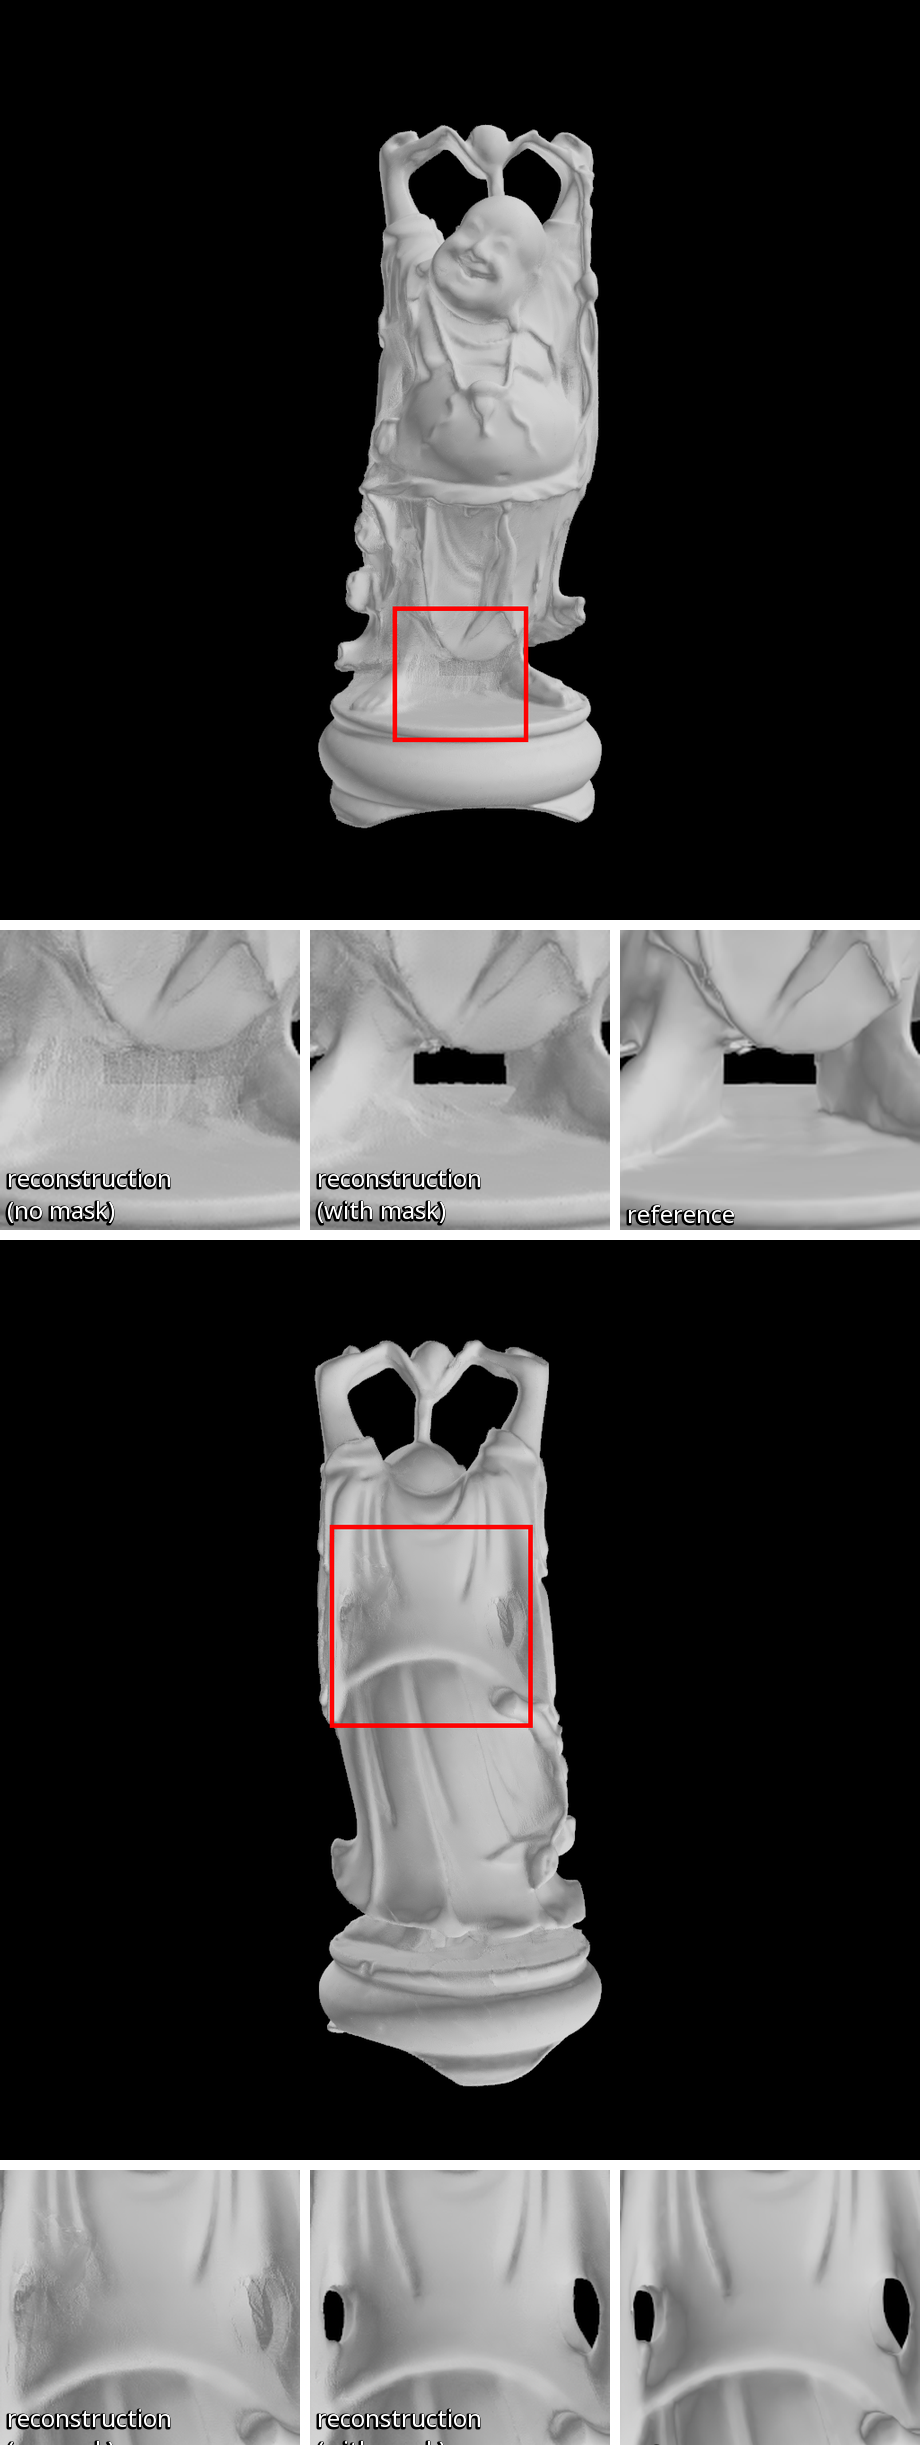
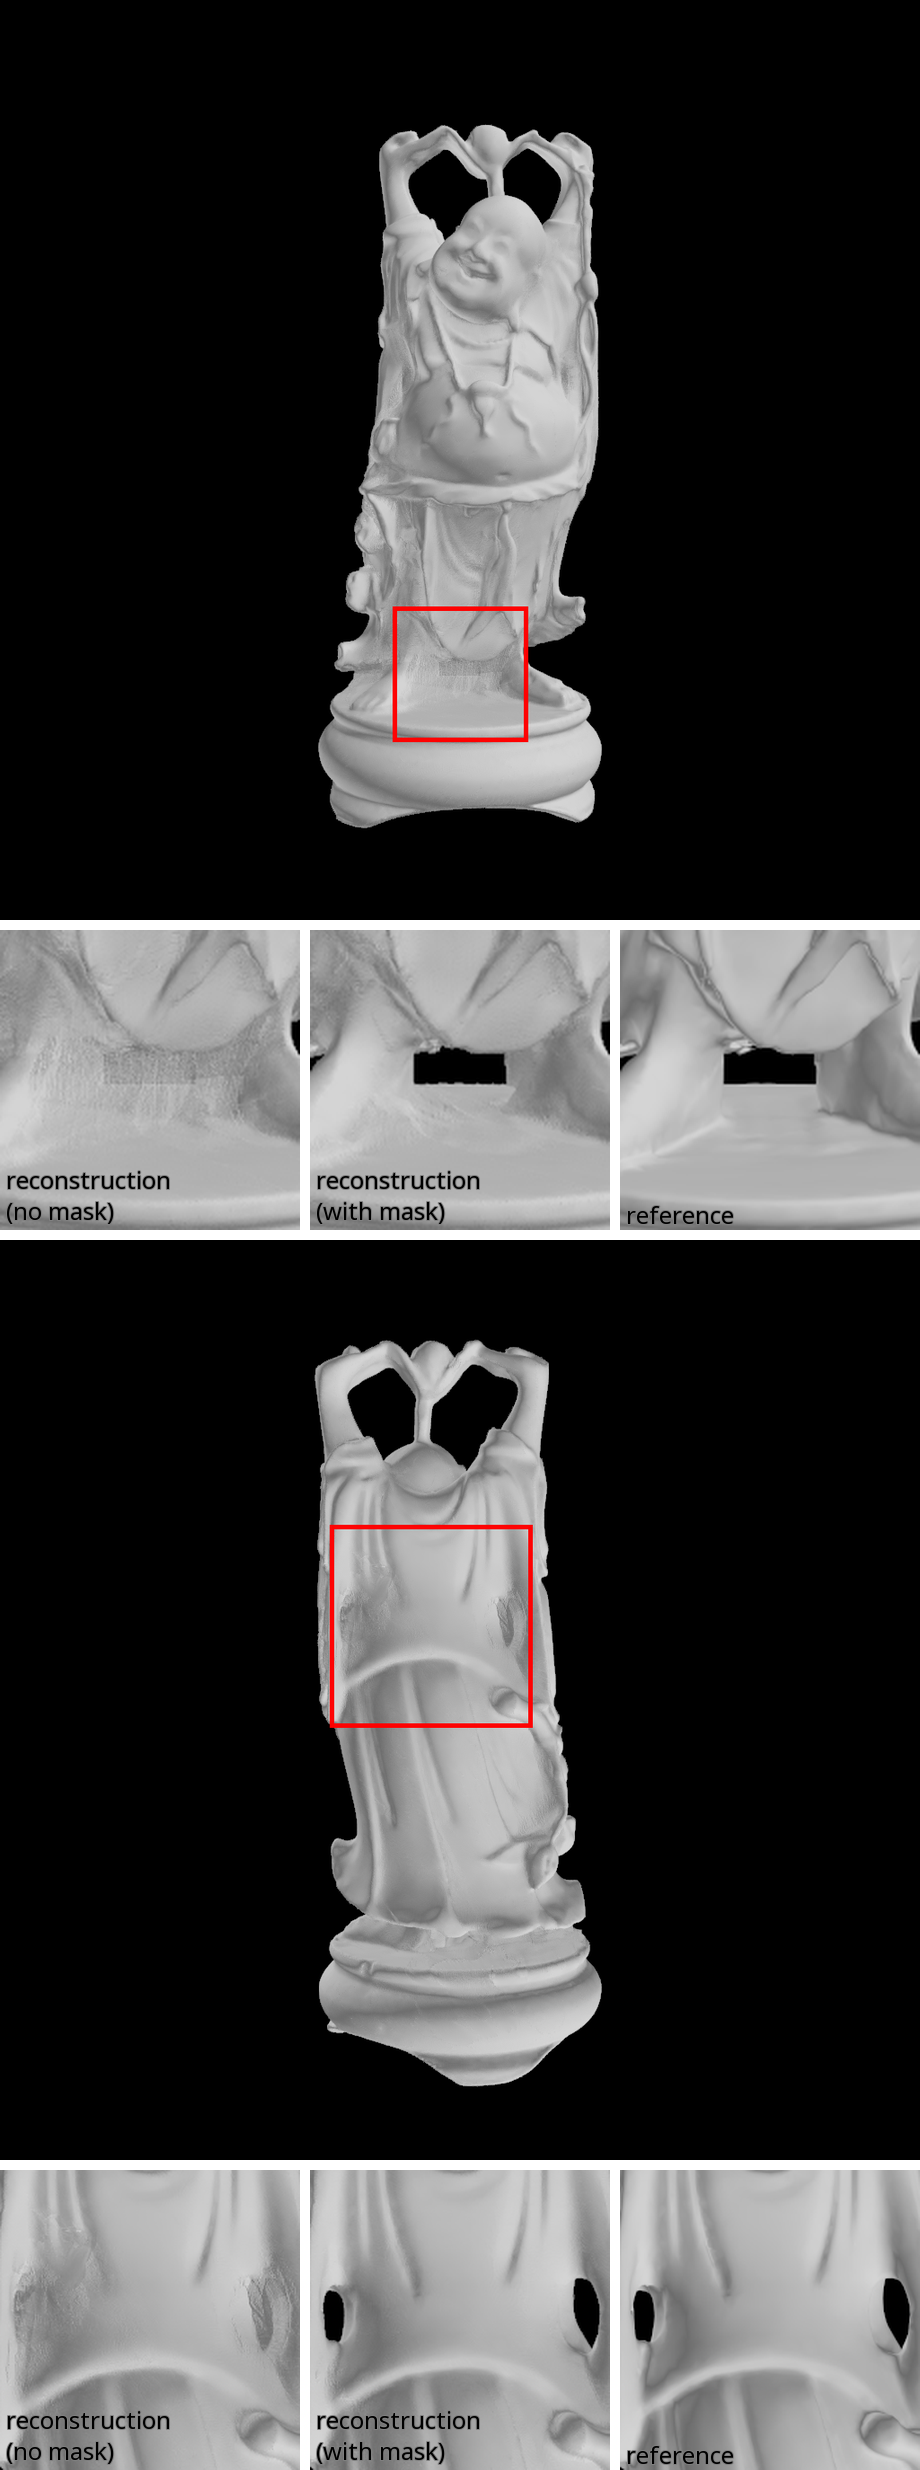
Collage, algorithms mentioned, refs, etc.

diff --git a/sparsedr_ext_paper.tex b/sparsedr_ext_paper.tex
@@ -62,7 +62,7 @@ computer vision, 3D reconstruction, differentiable rendering, signed distance fu
 
 3D reconstruction is one of the fundamental problems in computer vision. It is closely related to inverse rendering. While forward rendering involves generating 2D images from a 3D scene, the goal of inverse rendering is to reconstruct scene objects from a set of images assumed to be produced under a specific rendering process. Significant progress has been made in this area over the past decade, driven by the rapid development of differentiable rendering. Differentiable rendering assumes that all stages of the rendering pipeline are differentiable, thereby enabling the use of gradient-based optimization for scene reconstruction. Consequently, gradients of the loss function -- calculated based on the difference between the reconstructed and reference images -- can be propagated to the parameters being optimized (such as material properties and geometry), allowing them to converge toward the parameters of the reference scene during optimization process.
 
-In recent years, Signed Distance Functions (SDFs) become widely used in 3D reconstruction \cite{ref-lin-2020,ref-sommer-2022,ref-slavcheva-2016} and differentiable rendering \cite{DRSDF2022,DRSDF2024}. The smooth and continuous representation of surfaces provided by the SDFs is the main reasons behind this popularity. This property is also useful for the inverse CAD design problem \cite{invCAD1,invCAD2}, where the representation must be differentiable with respect to the model parameters. When modeling real-world objects, particularly in CAD systems, it is often unnecessary to compute SDF values throughout the entire 3D space. The primary interest lies in the thin region surrounding the surface, specifically, in the area where the absolute value of the SDF does not exceed a certain threshold distance. In \cite{RelaxBoundary}, this region is termed the "relaxed boundary." Sparse SDFs store and process data only within such regions.
+In recent years, Signed Distance Functions (SDFs) become widely used in 3D reconstruction \cite{ref-lin-2020,ref-sommer-2022,ref-slavcheva-2016} and differentiable rendering \cite{DRSDF2022,RelaxBoundary}. The smooth and continuous representation of surfaces provided by the SDFs is the main reasons behind this popularity. This property is also useful for the inverse CAD design problem \cite{invCAD1,invCAD2}, where the representation must be differentiable with respect to the model parameters. When modeling real-world objects, particularly in CAD systems, it is often unnecessary to compute SDF values throughout the entire 3D space. The primary interest lies in the thin region surrounding the surface, specifically, in the area where the absolute value of the SDF does not exceed a certain threshold distance. In \cite{RelaxBoundary}, this region is termed the "relaxed boundary." Sparse SDFs store and process data only within such regions.
 
 In this paper, we proposes a differentiable rendering method for sparse SDF representations. Our work builds upon the relaxed boundary approach~\cite{RelaxBoundary}, yet we have redesigned every stage of the optimization algorithm. To address the high computational cost of the redistancing procedure, we propose an approach that outperforms the existing algorithm in terms of efficiency. This procedure significantly affects optimization time, as it is executed at each optimization step to update values following distance changes; since the grid ceases to represent a valid distance function, all distance values at the grid nodes must be recalculated. Although the core ideas used in this work were presented at the IJCAI’2026 conference \cite{ijcai2026}, the results reported in this paper are significantly expanded and advanced. In particular, the main algorithms were optimized, increasing the speedup of the reconstruction time from a factor of 2-3.5 to an order of magnitude. The size of the test dataset was doubled. Additional experiments and comparative studies were conducted, including an ablation study that was not presented at the conference.  
 
@@ -115,7 +115,7 @@ The described methods advance the differentiable, physics-based rendering by int
 
 \section{Method}
 
-Our method is named SparseDR (Differentiable Rendering for Sparse SDF). Its main idea is illustrated in Fig.~\ref{figSparseDR}. The reconstruction process proceeds over several epochs. Each epoch consists of several hundred iterations, comprising the following steps. First, a batch of images is rendered using reference viewpoints with gradient accumulation. Next, regularization is applied to the distance values. A loss function representing the discrepancy between the synthesized and reference images is then computed, and backpropagation is performed. At the end of each iteration, a local redistancing procedure is carried out. Between epochs, sparsification and upsampling of the signed distance function (SDF) are performed, followed by a global redistancing calculation.
+Our method is named SparseDR (Differentiable Rendering for Sparse SDF). Its main idea is illustrated in Fig.~\ref{figSparseDR}. The reconstruction process proceeds over several epochs. Each epoch, described in Algorithm \ref{alg:OptimEpoch}, consists of several hundred iterations, comprising the following steps. First, a batch of images is rendered using reference viewpoints with gradient accumulation. Next, regularization is applied to the distance values. A loss function representing the discrepancy between the synthesized and reference images is then computed, and backpropagation is performed. At the end of each iteration, a local redistancing procedure is carried out. Between epochs, as shown in the Algorithm \ref{alg:OptimFull}, sparsification and upsampling of the signed distance function (SDF) are performed, followed by a global redistancing calculation.
 
 \subsection{Rendering and Gradient Evaluation}
 
@@ -198,11 +198,11 @@ This section consists of two parts: the first presents a comparison with the bas
 
 \subsection{Comparison to baseline}
 
-% Сравнения представляют собой реконструкцию моделей в максимально равных условиях с последующим сопоставлением времени, точности реконструкции, а также размеров полученных представлений для каждой эпохи. Реализация метода релаксированной границы взята из официального репозитория \cite{DRSDF24Repo}.
+% Сравнения представляют собой реконструкцию моделей в максимально равных условиях с последующим сопоставлением времени, точности реконструкции, а также размеров полученных представлений для каждой эпохи. Реализация метода релаксированной границы взята из официального репозитория \cite{RelaxRepo}.
 
 % Реконструкция велась на 24 ракурсах, равномерно распределённых на полусфере, разрешение изображений 1024*1024. В сцене два направленных источника света: (1,1,1) и (-1,-1,-1), а также ambient light. Размер батча 6. Hyperparameters, such as learning rate, Adam optimizer parameters, relaxed boundary width, взяты из конфигурационного файла в репозитории базового метода. Восстанавливались 12 моделей: 4 модели from Stanford 3D scans repository, Nefertiti scan, Utah teapot, а также сканы Artec3D: Buggy, Demogorgon, Doom, Helicopter, Pufferfish, Wheel.
 
-Comparisons consist of reconstructing models under maximally equal conditions, followed by comparing reconstruction time, accuracy, and the sizes of the resulting representations for each epoch. The implementation of the relaxed boundary method is taken from the official repository \cite{DRSDF24Repo}.
+Comparisons consist of reconstructing models under maximally equal conditions, followed by comparing reconstruction time, accuracy, and the sizes of the resulting representations for each epoch. The implementation of the relaxed boundary method is taken from the official repository \cite{RelaxRepo}.
 
 Reconstruction was performed from 24 views uniformly distributed over a hemisphere, with image resolution 1024x1024. The scene contains two directional light sources at (1,1,1) and (-1,-1,-1), as well as ambient light. The batch size is 6. Hyperparameters, such as learning rate, Adam optimizer parameters, and relaxed boundary width, are taken from the configuration file in the base method's repository. Twelve models were reconstructed: four models from the Stanford 3D Scans Repository, the Nefertiti scan, the Utah teapot, and Artec3D scans: Buggy, Demogorgon, Doom, Helicopter, Pufferfish, and Wheel.
 
@@ -280,9 +280,21 @@ Table \ref{tab:comp_size} reports the sizes of the models obtained for each inpu
     Average rendering time per epoch for Sphere Tracing and Newton intersection methods.\label{figSTNt}
 }
 
-\Figure[t](topskip=0pt, botskip=0pt, midskip=0pt)[width=0.9\linewidth]{Resources/ieee_acc_time_redist.pdf}{
-    Average redistancing time per epoch for local and global redistancing.\label{figGlobLoc}
-}
+\begin{table}
+    \centering
+    \begin{tabular}{cccccc}
+        \toprule
+        Representation & $128^3$ & $256^3$ & $512^3$ & $1024^3$ & $2048^3$  \\
+        \midrule[\heavyrulewidth]
+        Local  & 2.88 & 11.93 &  59.83 &  388.24 & 1803.84 \\
+        \cmidrule(lr){1-1}
+        \cmidrule(lr){2-6}
+        Global &70.48 &307.60 &1494.15 &23142.38 &39645.30  \\
+        \bottomrule
+    \end{tabular}
+    \caption{Average redistancing time per epoch, on epochs 3-7, for local and global redistancing, ms.}
+    \label{figGlobLoc}
+\end{table}
 
 % В данном подразделе исследуется влияние отдельных элементов алгоритма и параметров на скорость и качество реконструкции, а также приводятся дополнительные результаты экспериментов из прошлого подраздела, выходящие за рамки сравнения с базовым методом.
 
@@ -368,31 +380,31 @@ This work was supported by The Ministry of Economic Development of the Russian F
 
 \begin{thebibliography}{00}
 \bibitem{ref-lin-2020} 
-C. H. Lin, C. Wang, and S. Lucey, ``SDF-SRN: Learning Signed Distance 3D Object Reconstruction from static Images,'' Adv. Neural Inf. Process. Syst., vol. 33, pp.~11453--11464, 2020.
+C. H. Lin, C. Wang, and S. Lucey, ``SDF-SRN: Learning Signed Distance 3D Object Reconstruction from static Images,'' \textit{Adv. Neural Inf. Process. Syst.}, vol. 33, pp.~11453--11464, 2020.
 
 \bibitem{ref-sommer-2022} 
-C. Sommer, L. Sang, D. Schubert, and D. Cremers, Gradient-SDF: A Semi-Implicit Surface Representation for 3D Reconstruction. In Proceedings of the IEEE/CVF Conference on Computer Vision and Pattern Recognition (CVPR), New Orleans, LA, USA, 2022. 10.1109/CVPR52688.2022.00618
+C. Sommer, L. Sang, D. Schubert, and D. Cremers, Gradient-SDF: A Semi-Implicit Surface Representation for 3D Reconstruction. \textit{In Proceedings of the IEEE/CVF Conference on Computer Vision and Pattern Recognition (CVPR)}, New Orleans, LA, USA, 2022. 10.1109/CVPR52688.2022.00618
 
 \bibitem{ref-slavcheva-2016} 
-M. Slavcheva, W. Kehl, N. Navab, and S. Ilic, SDF-2-SDF: Highly Accurate 3D Object Reconstruction. In Proceedings of the European Conference on Computer Vision (ECCV), Amsterdam, The Netherlands, pp. 680--696, 2016. 10.1007/978-3-319-46448-0\_41
+M. Slavcheva, W. Kehl, N. Navab, and S. Ilic, SDF-2-SDF: Highly Accurate 3D Object Reconstruction. \textit{In Proceedings of the European Conference on Computer Vision (ECCV)}, Amsterdam, The Netherlands, pp. 680--696, 2016. 10.1007/978-3-319-46448-0\_41
 
 \bibitem{DRSDF2022} 
-D. Vicini, S. Speierer, and W. Jakob, ``Differentiable signed distance function rendering,'' ACM Trans. Graph. vol. 41, no. 4, 125, pp.~1--18, 2022. (TOG) 10.1145/3528223.3530139
-
-\bibitem{DRSDF2024} 
-Z. Wang, X. Deng, Z. Zhang, W. Jakob, and S. Marschner, A Simple Approach to Differentiable Rendering of SDFs. In Proceedings of SIGGRAPH Asia 2024 Conference Papers (SA '24). Article 119, 1–11, 2024. 10.1145/3680528.3687573
+D. Vicini, S. Speierer, and W. Jakob, ``Differentiable signed distance function rendering,'' \textit{ACM Trans. Graph.}, vol. 41, no. 4, 125, pp.~1--18, 2022. (TOG) 10.1145/3528223.3530139
 
 \bibitem{invCAD1} 
-Z. Zhang, M. Zhao, Z. Shen, Y. Wang, X. Jia, and D.-M. Yan, ``Interactive reverse engineering of CAD models,'' Comput. Aided Geom. Des., vol. 111, p.~102339, 2024, doi: 10.1016/j.cagd.2024.102339
+Z. Zhang, M. Zhao, Z. Shen, Y. Wang, X. Jia, and D.-M. Yan, ``Interactive reverse engineering of CAD models,'' \textit{Comput. Aided Geom. Des.}, vol. 111, p.~102339, 2024, doi: 10.1016/j.cagd.2024.102339
 
 \bibitem{invCAD2} 
-S. Kabisov, V. Kirichuk, A. Volkov, M. Barannikov, G. Savrasov, A. Konushin, et al., CADreasoner: Iterative program editing for CAD reverse engineering. In Proceedings of the IEEE/CVF Conference on Computer Vision and Pattern Recognition, pp. 6143-6153, 2026.
+S. Kabisov, V. Kirichuk, A. Volkov, M. Barannikov, G. Savrasov, A. Konushin, et al., CADreasoner: Iterative program editing for CAD reverse engineering. \textit{In Proceedings of the IEEE/CVF Conference on Computer Vision and Pattern Recognition}, pp. 6143-6153, 2026.
 
 \bibitem{RelaxBoundary}
 Zichen Wang, Xi Deng, Ziyi Zhang, Wenzel Jakob, and Steve Marschner. (2024). A Simple Approach to Differentiable Rendering of SDFs. \textit{SIGGRAPH Asia 2024 Conference Papers (SA '24)}. Association for Computing Machinery, New York, NY, USA, Article 119, 1-11. doi: 10.1145/3680528.3687573.
 
+\bibitem{RelaxRepo}
+Zichen Wang. (2024). A Simple Approach to Differentiable Rendering of SDFs: official repository. URL: https://github.com/zichenwang01/relaxed-boundary/
+
 \bibitem{ijcai2026}
-A. Budak, A. Garifullin, and V. Frolov. SparseDR: Differentiable Rendering of Sparse Signed Distance Fields. In Proceedings of the 35th International Joint Conference on Artificial Intelligence. Demo track. pp.~8371-8374. 10.24963/ijcai.2026/959
+A. Budak, A. Garifullin, and V. Frolov. SparseDR: Differentiable Rendering of Sparse Signed Distance Fields. \textit{In Proceedings of the 35th International Joint Conference on Artificial Intelligence. Demo track}. pp.~8371-8374. 10.24963/ijcai.2026/959
 
 \bibitem{NeRF}
 Ben Mildenhall, Pratul P. Srinivasan, Matthew Tancik, Jonathan T. Barron, Ravi Ramamoorthi, and Ren Ng. (2021). NeRF: representing scenes as neural radiance fields for view synthesis. \textit{Commun. ACM}, 65, 1 (January 2022), 99-106. doi: 10.1145/3503250.
